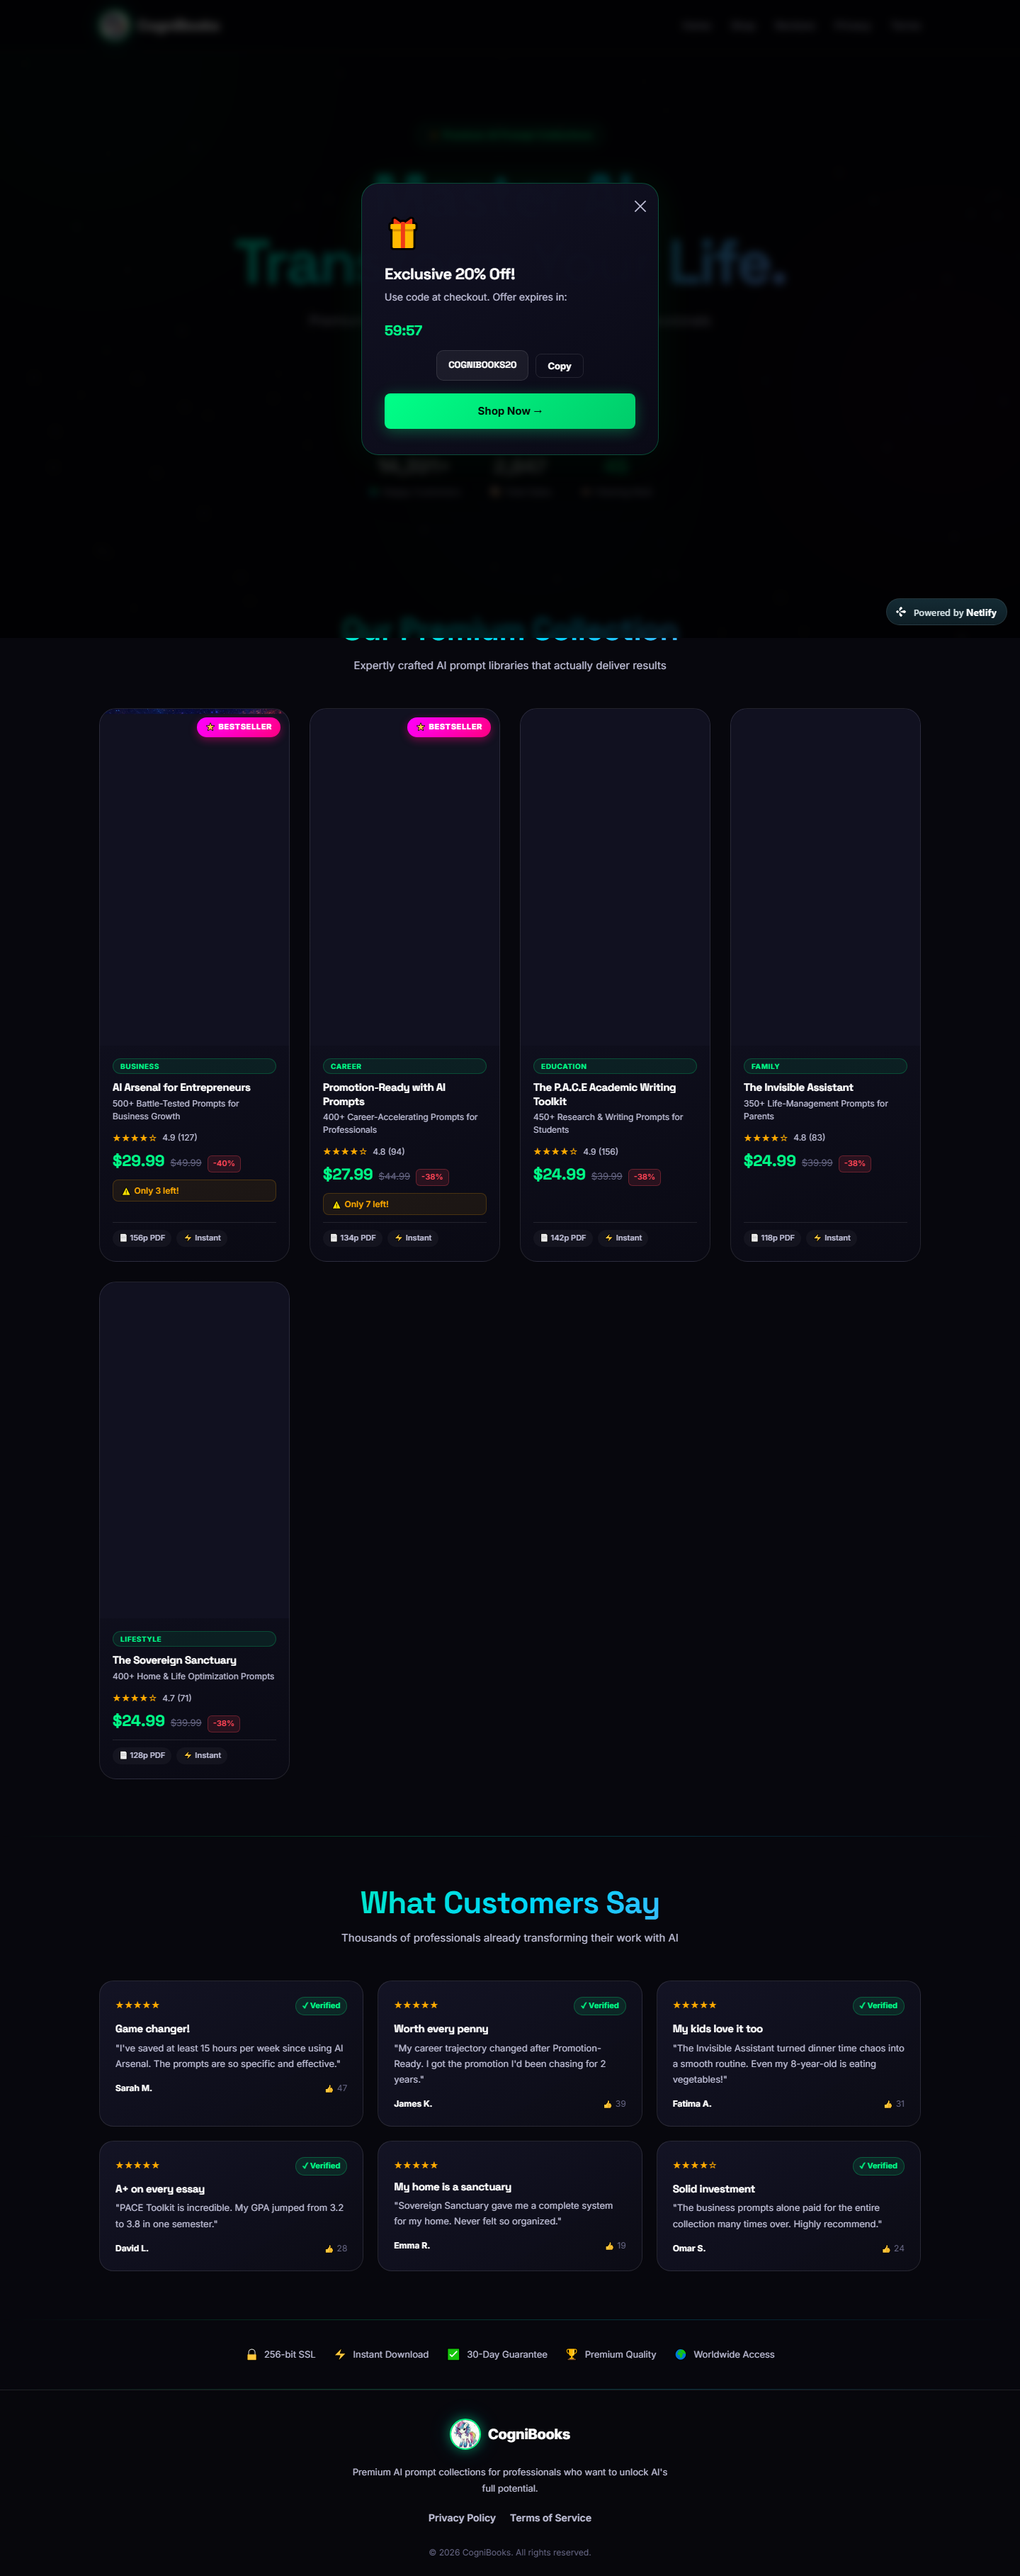
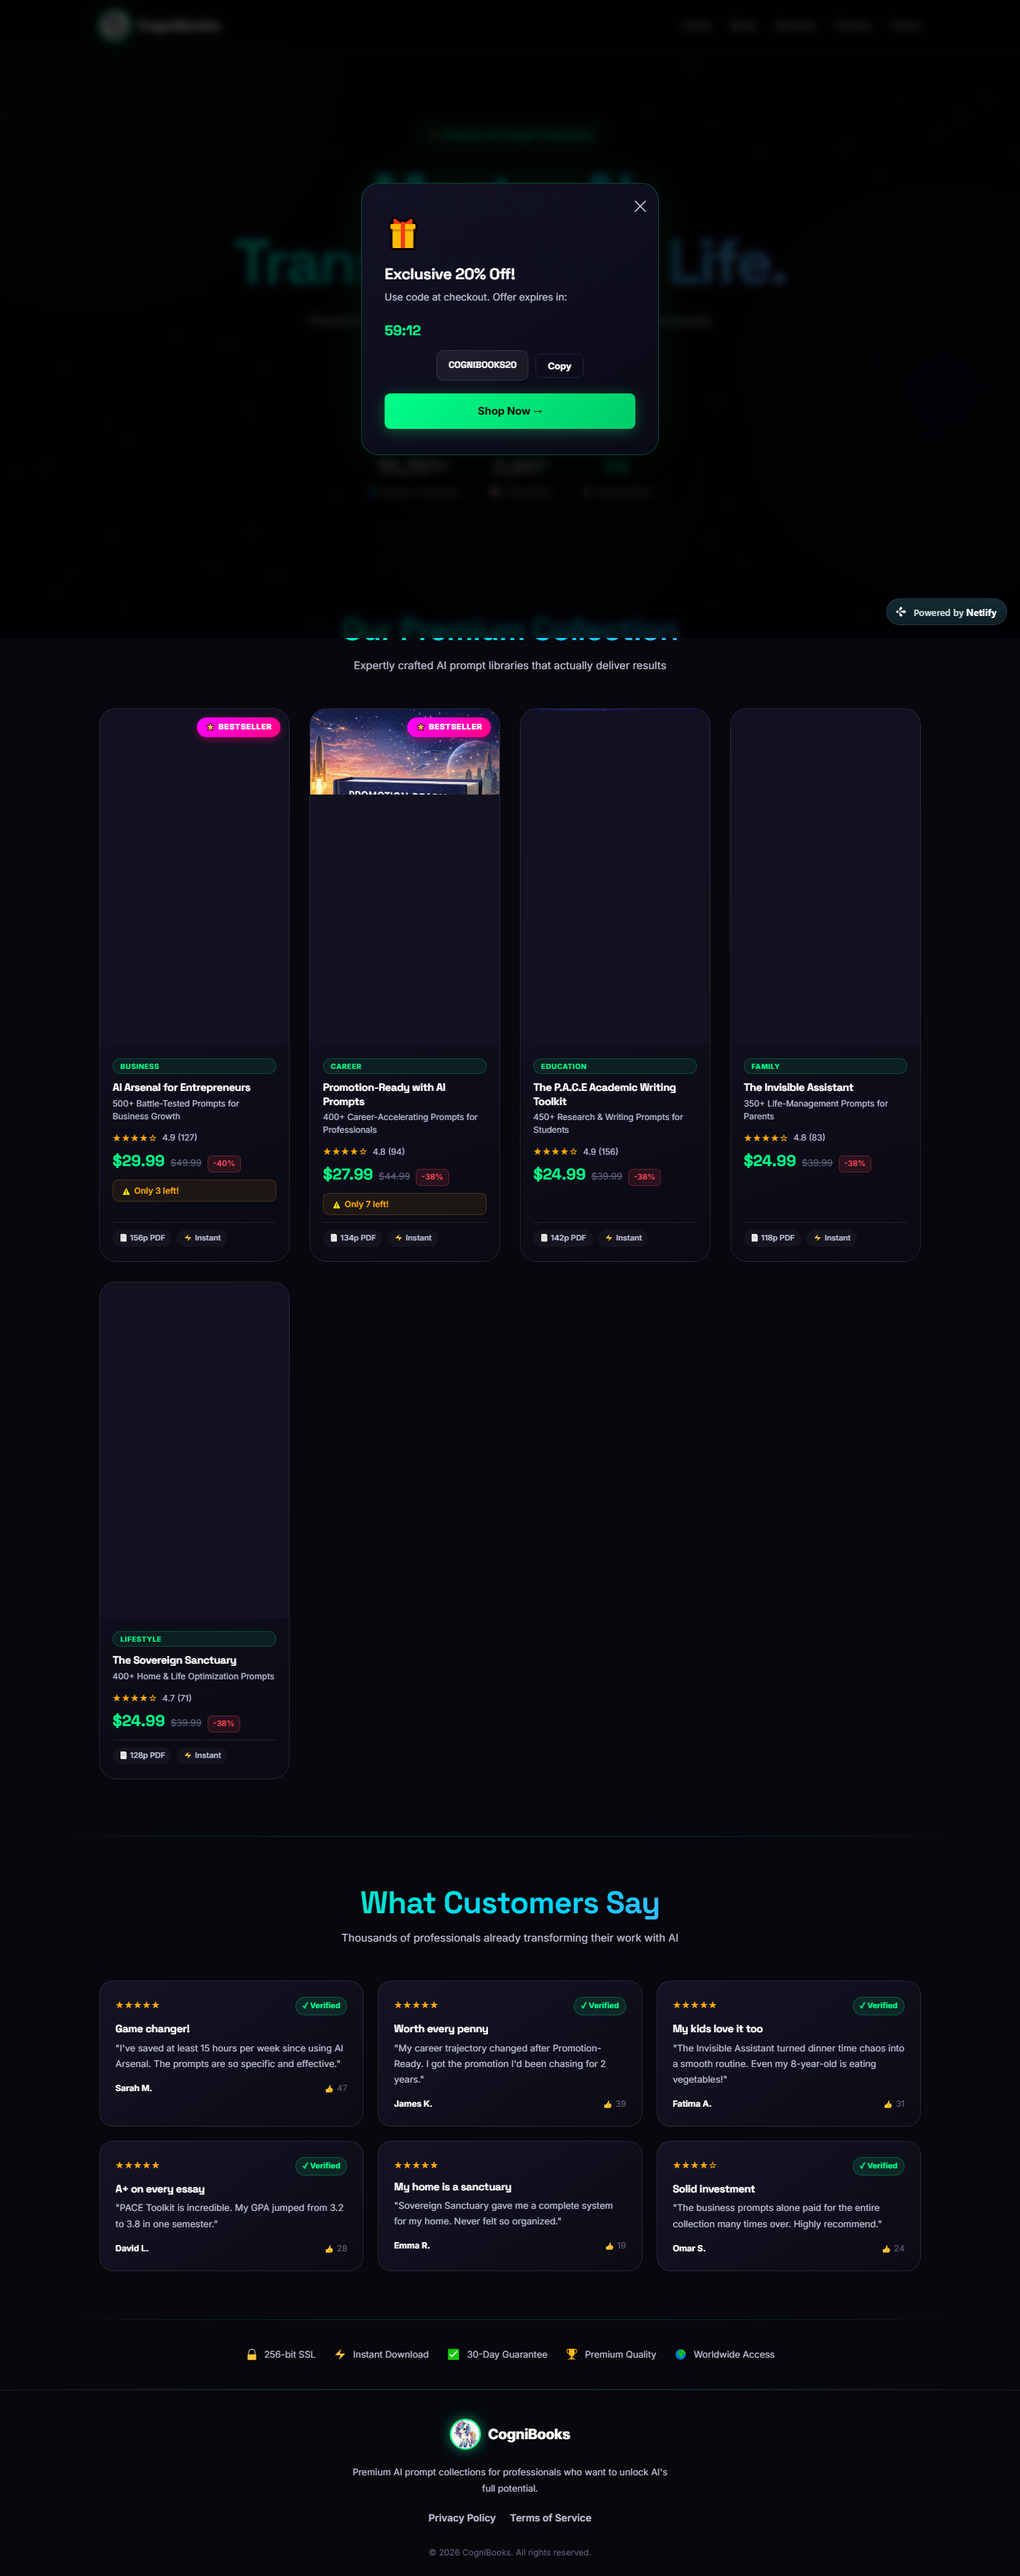
fix: scroll-padding-top prevents header from intercepting hash navigation clicks

Changed region(s): [[0.2812, 0.2488, 0.5, 0.311]]

diff --git a/src/index.css b/src/index.css
@@ -27,7 +27,7 @@
 }
 
 *, *::before, *::after { box-sizing: border-box; margin: 0; padding: 0; }
-html { scroll-behavior: smooth; font-size: 16px; }
+html { scroll-behavior: smooth; font-size: 16px; scroll-padding-top: 100px; }
 body {
   font-family: 'Inter', system-ui, -apple-system, BlinkMacSystemFont, 'Segoe UI', sans-serif;
   background: var(--clr-bg);
